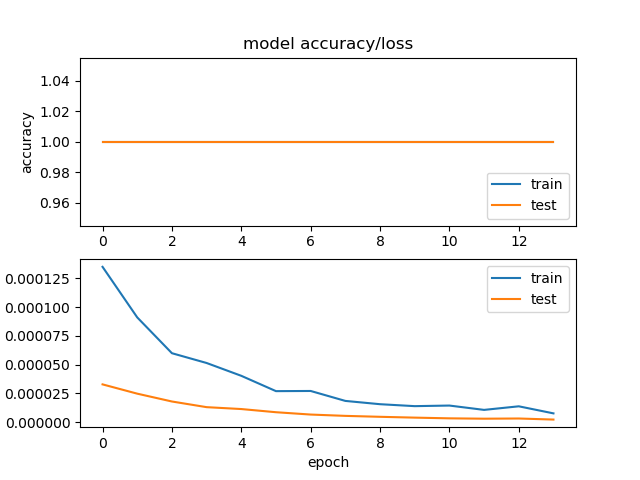
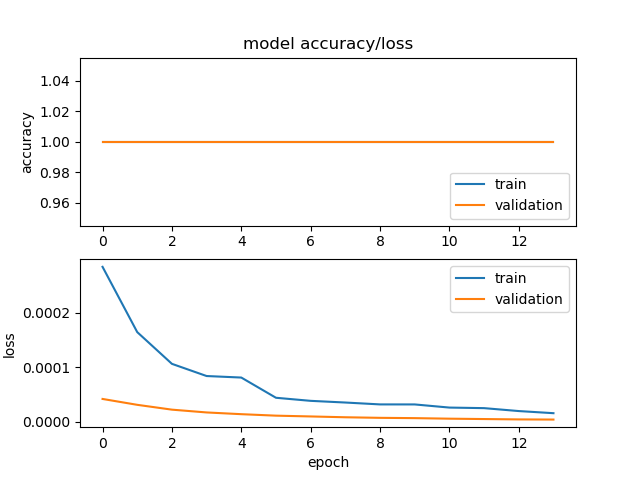
new res

diff --git a/neuralKeras/src/predMatrix5.py b/neuralKeras/src/predMatrix5.py
@@ -2,7 +2,6 @@ import sys
 import numpy as np
 
 from keras.models import Sequential, load_model
-import matplotlib.pyplot as plt
 
 np.set_printoptions(threshold=np.nan)
 
@@ -11,10 +10,6 @@ if (len(sys.argv) != 2):
     print('> Unexpected quantity of arguments, check your comand string.')
     sys.exit(1)
 
-classList = ['TRIPLE INVERSE DIAGONAL', 'DOUBLE DIRECT DIAGONAL',
-             'DOUBLE DIRECT + DOUBLE INVERSE DIAGONALS', 'UPPER TIANGLE',
-             'DOUBLE INVERSE DIAGONALS', 'LOWWER TIANGLE', 'RANDOM']
-
 matrixList = []
 
 fileIn = open(sys.argv[1], "r")
@@ -22,9 +17,8 @@ fileIn = open(sys.argv[1], "r")
 matrix = fileIn.readlines()
 dim = len(matrix)
 
-print('> Readind matrix data...')
 for i in range(dim):
-    matrix[i] = matrix[i][:-1].split(' ')
+    matrix[i] = matrix[i][:-2].split(' ')
     # for j in range(len(matrix[i])):
     #     matrix[i][j] = int(matrix[i][j])
 
@@ -40,10 +34,6 @@ for i in range(dim):
         else:
             matrix[i][pairList[j][0]] = j + 1
 
-# plt.imshow(matrix)
-# plt.colorbar()
-# plt.show()
-
 tmp = np.array(matrix)
 tmp = np.expand_dims(tmp, axis=2)
 matrixList.append(tmp)
@@ -58,14 +48,11 @@ print(matrixVec.shape)
 
 print('> Preparing for prediction...')
 model = Sequential()
-# model = load_model('./nets/net1.h5')
-model = load_model('./nets/goodNet3.h5')
+model = load_model('./nets/net1.h5')
+# model = load_model('./nets/netnetnet1.h5')
 
 print('> Predict on test data...')
 pred = model.predict(matrixVec[0:1])
 res = str(np.where(pred == pred.max())[1][0])
-
-print('> Probabilities of prediction are:')
-print(pred)
-resMsg = '> Your matrix class is {} ({})'.format(res, classList[int(res)])
+resMsg = '> Your matrix class is {}'.format(res)
 print(resMsg)

diff --git a/neuralKeras/src/test5.py b/neuralKeras/src/test5.py
@@ -207,12 +207,11 @@ plot_model(model, to_file='model.png', show_shapes=True)
 
 
 plt.subplot(211)
+plt.title('Model accuracy/loss (full)')
 plt.plot(history.history['acc'])
 plt.plot(history.history['val_acc'])
-plt.title('model accuracy/loss')
-plt.ylabel('accuracy')
+plt.ylabel('Accuracy')
 # plt.xlabel('epoch')
-# plt.legend(['train', 'test'], loc='upper left')
 plt.legend(['train', 'validation'], loc='lower right')
 
 # summarize history for loss
@@ -220,11 +219,30 @@ plt.subplot(212)
 plt.plot(history.history['loss'])
 plt.plot(history.history['val_loss'])
 # plt.title('model loss')
-plt.ylabel('loss')
-plt.xlabel('epoch')
+plt.ylabel('Loss')
+plt.xlabel('Epoch')
+plt.legend(['train', 'validation'], loc='upper right')
+
+plt.savefig('plotFull.png', fmt='png')
+plt.clf()
+
+plt.subplot(211)
+plt.plot(history.history['acc'][2:])
+plt.plot(history.history['val_acc'][2:])
+plt.title('Model accuracy/loss (part)')
+plt.ylabel('Accuracy')
+# plt.xlabel('epoch')
+plt.legend(['train', 'validation'], loc='lower right')
+
+plt.subplot(212)
+plt.plot(history.history['loss'][2:])
+plt.plot(history.history['val_loss'][2:])
+# plt.title('model loss')
+plt.ylabel('Loss')
+plt.xlabel('Epoch')
 plt.legend(['train', 'validation'], loc='upper right')
 # plt.savefig('plot.png', fmt='png')
-plt.savefig('plot2.png', fmt='png')
+plt.savefig('plotPart.png', fmt='png')
 # plt.show()
 plt.clf()
 

diff --git a/neuralKeras/src/haar.py b/neuralKeras/src/haar.py
@@ -11,6 +11,7 @@ import math
 # from keras.optimizers import SGD
 # from keras.utils import plot_model, normalize
 import matplotlib.pyplot as plt
+import matplotlib as mpl
 # from keras.regularizers import l2
 
 np.set_printoptions(threshold=np.nan)
@@ -68,6 +69,10 @@ for file in matrixFiles:
             newStr.append(sum)
         sque.append(newStr)
 
+    aa = np.array(sque)
+    plt.imshow(aa)
+    plt.colorbar()
+    plt.show()
     for i in range(quan):
         size = quan
         while size > 1:
